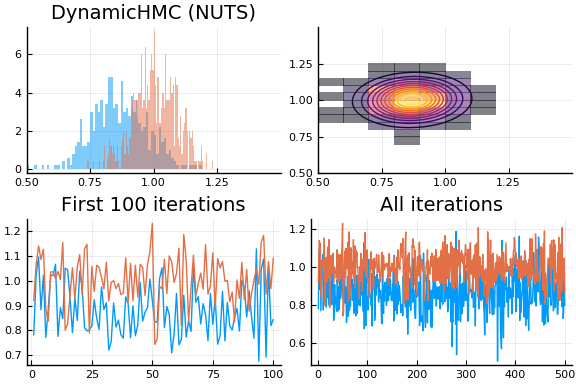
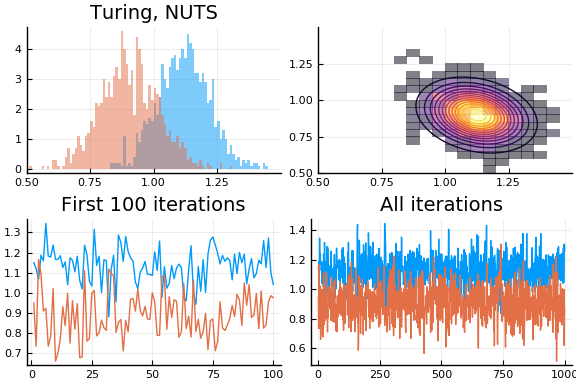
Deployed 064ffd3 with MkDocs version: 1.1

diff --git a/ols/index.html b/ols/index.html
@@ -378,13 +378,13 @@ end
 </code></pre>
 
 <pre><code>(ϵ, L) = (0.001, 2)
-  2.058724 seconds (16.52 M allocations: 824.979 MiB, 10.34% gc time)
+  2.859568 seconds (18.27 M allocations: 915.913 MiB, 7.04% gc time)
 (ϵ, L) = (0.001, 10)
-  7.335227 seconds (76.23 M allocations: 3.599 GiB, 10.76% gc time)
+  7.433249 seconds (76.23 M allocations: 3.599 GiB, 10.09% gc time)
 (ϵ, L) = (0.1, 2)
-  1.542728 seconds (15.60 M allocations: 779.647 MiB, 10.41% gc time)
+  1.550567 seconds (15.60 M allocations: 779.647 MiB, 9.62% gc time)
 (ϵ, L) = (0.1, 10)
-  7.259481 seconds (76.23 M allocations: 3.599 GiB, 10.37% gc time)
+  7.351889 seconds (76.23 M allocations: 3.599 GiB, 9.59% gc time)
 </code></pre>
 <p><img alt="" src="../figures/ols_8_1.png" /> <img alt="" src="../figures/ols_8_2.png" />
 <img alt="" src="../figures/ols_8_3.png" /> <img alt="" src="../figures/ols_8_4.png" /></p>
@@ -419,14 +419,14 @@ end
 lr = LinearRegressionKnownSigma(y,x,σ,τ)
 ∇logposterior=ADgradient(:Zygote, lr)
 
-@time results=DynamicHMC.mcmc_keep_warmup(Random.GLOBAL_RNG, ∇logposterior, 500;
+@time results=DynamicHMC.mcmc_keep_warmup(Random.GLOBAL_RNG, ∇logposterior, 1000;
                                           warmup_stages=
                                           default_warmup_stages(init_steps=50,
                                                                 middle_steps=100,
                                                                 doubling_stages=2));
 </code></pre>
 
-<pre><code>9.116231 seconds (47.66 M allocations: 1.691 GiB, 5.40% gc time)
+<pre><code>16.932555 seconds (88.10 M allocations: 3.155 GiB, 4.98% gc time)
 </code></pre>
 <pre><code class="julia">dhβ = hcat(results.inference.chain...)
 h=histogram(dhβ', bins=100, labels=[&quot;β₁&quot; &quot;β₂&quot;], fillalpha=0.5, linealpha=0,
@@ -458,10 +458,10 @@ programming language (similar to STAN or BUGS), written in Julia.</p>
 end
 lr = lreg(x,y,σ,τ)
 
-@time cc = Turing.sample(lr, NUTS(0.65), 1000)
+@time cc = Turing.sample(lr, NUTS(0.65), 2000)
 </code></pre>
 
-<pre><code>2.437747 seconds (5.33 M allocations: 311.639 MiB, 5.25% gc time)
+<pre><code>9.670747 seconds (6.20 M allocations: 388.274 MiB, 1.20% gc time)
 </code></pre>
 <pre><code class="julia">tβ = cc.value[:,[&quot;β[1]&quot;,&quot;β[2]&quot;],1]'
 tβ = hcat(results.inference.chain...)
@@ -471,7 +471,7 @@ h2=histogram2d(tβ[1,:], tβ[2,:], xlim=lims, ylim=lims,
                normalize=:pdf, alpha=0.5, legend=false)
 h2=contour!(h2, range(lims..., length=100), range(lims..., length=100),
             (b1,b2)-&gt;posterior([b1,b2],σ, x, y, τ))
-display(plot(plot!(h,title=&quot;DynamicHMC (NUTS)&quot;), h2,
+display(plot(plot!(h,title=&quot;Turing, NUTS&quot;), h2,
              plot(tβ[:,1:100]', labels=[&quot;β₁&quot; &quot;β₂&quot;], title=&quot;First 100 iterations&quot;, legend=false),
              plot(tβ', labels=[&quot;β₁&quot; &quot;β₂&quot;], title=&quot;All iterations&quot;, legend=false),
              layout=(2,2)))

diff --git a/index.html b/index.html
@@ -191,5 +191,5 @@
 
 <!--
 MkDocs version : 1.1
-Build Date UTC : 2020-04-02 15:59:46
+Build Date UTC : 2020-04-02 16:11:00
 -->
